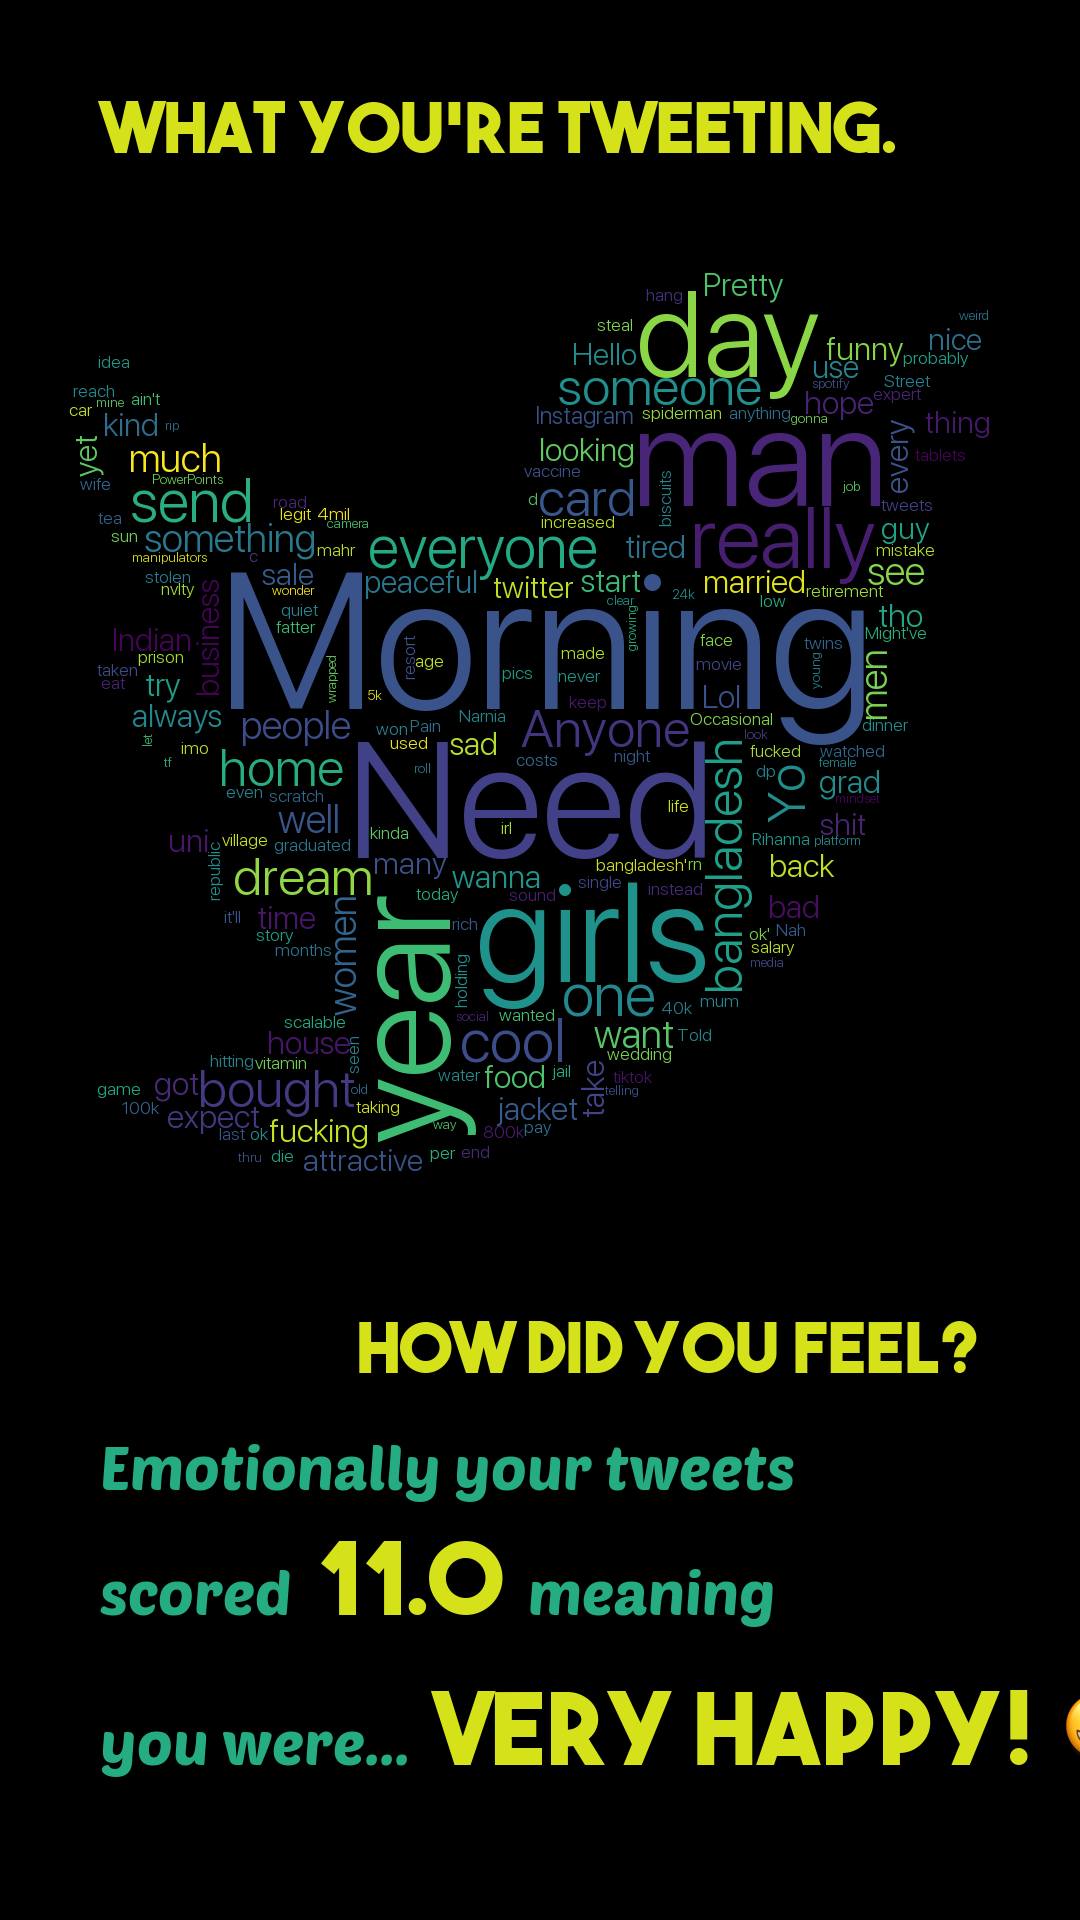
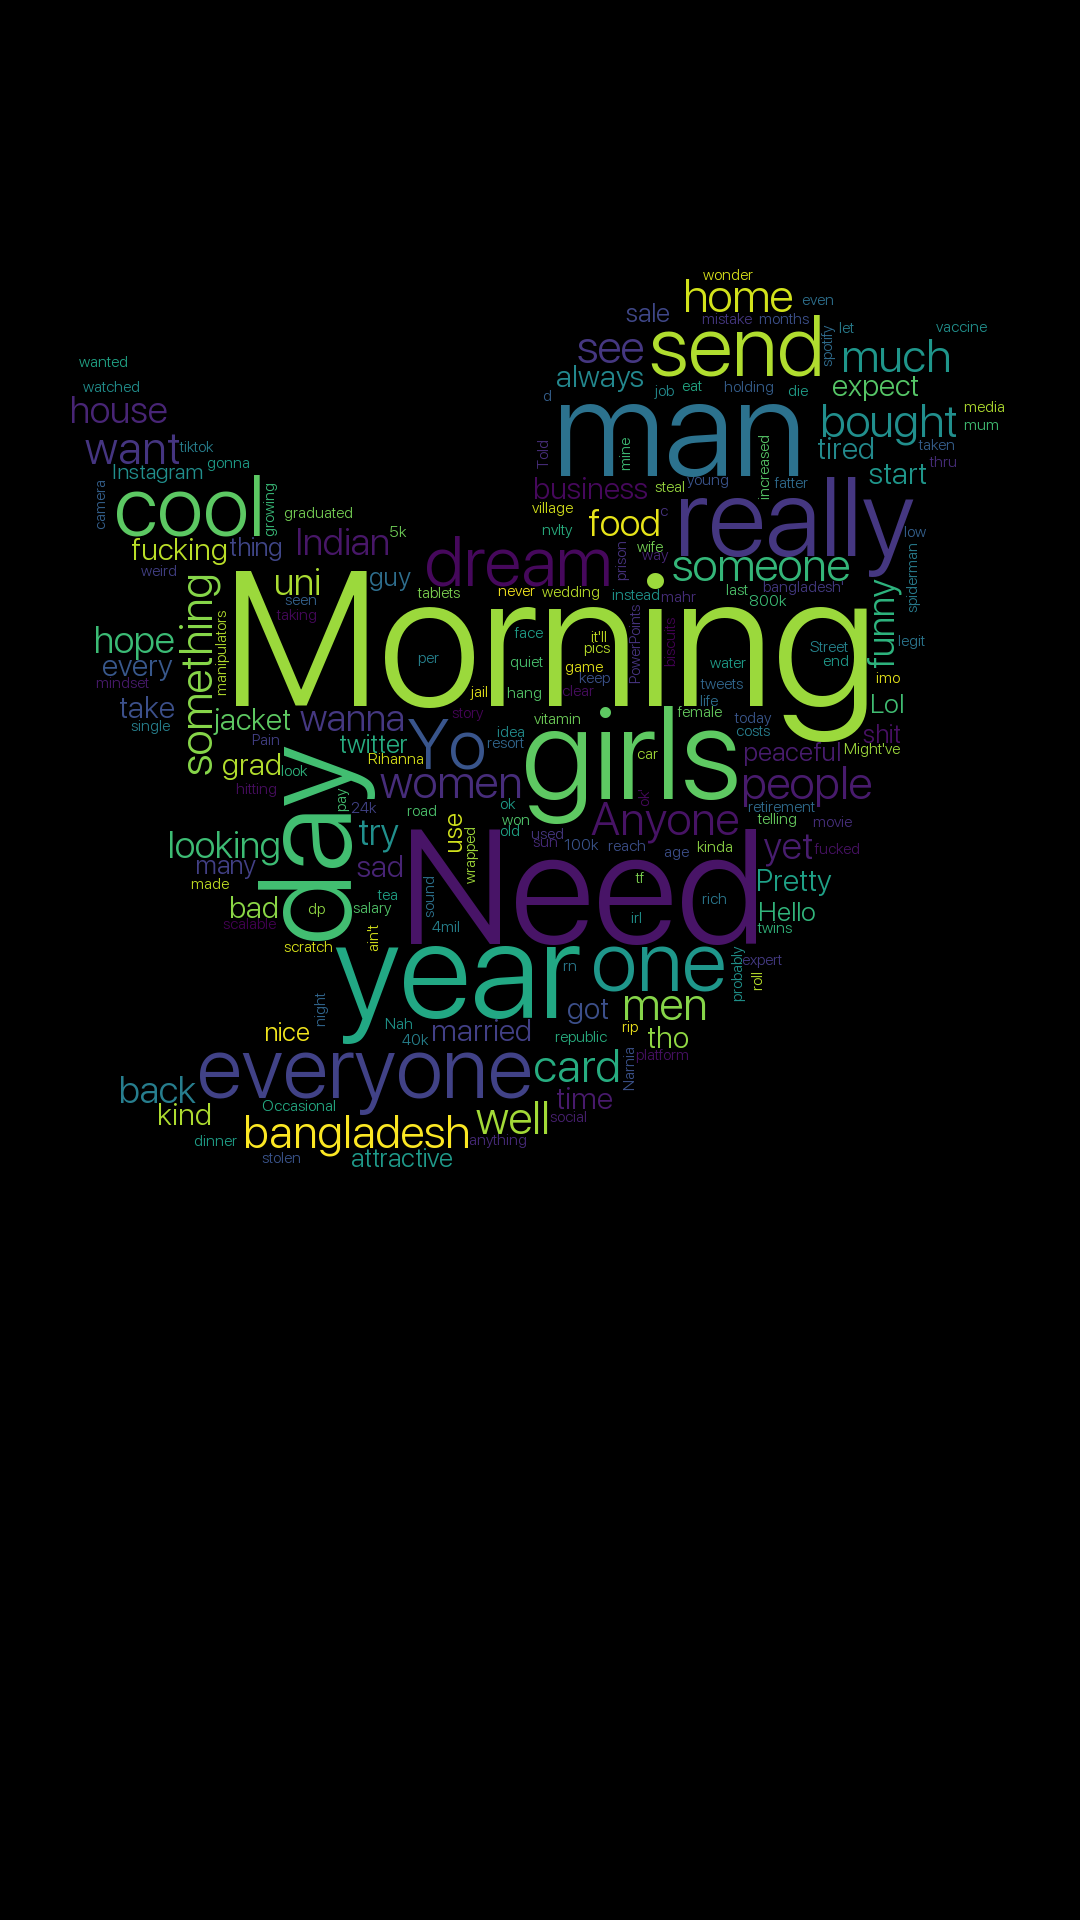
Restructure from 4 images to 2

diff --git a/generate_image.py b/generate_image.py
@@ -83,48 +83,6 @@ def cleanTweet(tweet):
     return ' '.join(re.sub("(@[A-Za-z0-9]+)|([^0-9A-Za-z' \t])|(\w+:\/\/\S+)", " ", tweet).split())
 
 
-# Generating word cloud image
-def createUserWordCloud(username):
-
-    # Content-related
-    text = open('user_tweets\\' + username + '.txt',
-                'r', encoding='utf-8').read()
-
-    # Stop words, add 'gt' to set
-    stopwords = STOPWORDS.add('gt')
-
-    # Mask
-    custom_mask = np.array(Image.open(
-        'img\\masks\\twitter_logo_1080x1920.png'))
-    font = 'fonts\\SFProDisplay-Light.ttf'
-
-    # WordCloud attributes
-    wordCloud = WordCloud(
-        font_path=font,
-        mask=custom_mask,
-        background_color='black',
-        stopwords=stopwords,
-        height=1000,
-        width=1000,
-        include_numbers=False,  # include numbers
-        #margin = 10,
-        #background_color = None,
-        #mode = 'RGBA',
-        # color_func = lambda *args, **kwargs: (255,255,255) # text colour
-    )
-
-    # Generate
-    wordCloud.generate(text)
-
-    # Use colour of mask image
-    ## image_colours = ImageColorGenerator(custom_mask)
-    ## wordCloud.recolor(color_func = image_colours)
-
-    # Store to file
-    wordCloud.to_file(
-        'img\\outputs\\word_clouds_and_sentiment_analysis\\' + username + '.png')
-
-
 # Add public metrics to dataframe
 def tweetsToDataFrame(tweets):
 
@@ -421,6 +379,110 @@ def generate_highest_metrics_and_likes_performance_image(username,
              username + ".png")
 
 
+#######################################################################################################################
+
+def generate_word_cloud_image(username):
+    
+    # Get user data
+    text = open('user_tweets\\' + username + '.txt',
+                'r', encoding='utf-8').read()
+
+    # Stop words, add 'gt' to it
+    stopwords = STOPWORDS.add('gt')
+
+    # Mask
+    custom_mask = np.array(Image.open(
+        'img\\masks\\twitter_logo_500x500.png'))
+    font = 'fonts\\SFProDisplay-Light.ttf'
+
+    # WordCloud attributes
+    wordCloud = WordCloud(
+        width=500,
+        height=500,
+        font_path=font,
+        mask=custom_mask,
+        stopwords=stopwords,
+        background_color='black',
+        include_numbers=False
+        #margin = 10, background_color = None, mode = 'RGBA',
+        #color_func = lambda *args, **kwargs: (255,255,255) # text colour
+    )
+
+    # Generate
+    wordCloud.generate(text)
+
+    # Use colour of mask image
+    ## image_colours = ImageColorGenerator(custom_mask)
+    ## wordCloud.recolor(color_func = image_colours)
+
+    # Store to file
+    wordCloud.to_file(
+        'img\\outputs\\word_clouds\\' + username + '.png')
+
+    # Open pre-gen word cloud
+    img = Image.open(
+        "img/outputs/word_clouds/" + username + ".png")
+    draw = ImageDraw.Draw(img)
+
+    # Template size
+    image_width, image_height = img.size
+
+    font = {
+        "title": ImageFont.truetype("fonts/theboldfont.ttf", 30),
+        "text": ImageFont.truetype("fonts/PoetsenOne-Regular.ttf", 60),
+        "number": ImageFont.truetype("fonts/theboldfont.ttf", 100)
+    }
+
+    font_colour = {
+        "title": (213, 226, 26),
+        "text": (37, 172, 130),
+        "number": (213, 226, 26)
+    }
+
+    # Text position
+    x_pos = 20
+    y_pos = 20
+    spacer = 100
+
+    # Content
+    title_text = ["What you're Tweeting."]
+    #title_text = [username + ",", "Tweets Visualized."]
+
+    # Draw title
+    draw.text((x_pos, y_pos), title_text[0],
+              font_colour["title"], font=font["title"])
+    #draw.text((x_pos, y_pos + spacer), title_text[1], font_colour["title"], font = font["title"])
+
+    # Save
+    img.save("img/outputs/word_clouds/" + username + ".png")
+    print("Created word cloud image.")
+   
+   
+def generate_highest_metrics_image():
+    return True
+    
+def generate_likes_performance_image():
+    return True
+        
+def generate_sentiment_analysis_image():
+    return True
+
+
+if __name__ == "__main__":
+    #main(sys.argv[1])
+    
+    username="FinessTV"
+    
+    generate_word_cloud_image(username)
+    
+    # Test without calling api
+    #generate_image_one("Talal916", 6.0)
+    #generate_image_two("Talal916", 787, 16, 292, {
+    #    100: 8,
+    #    1000: 0,
+    #    10000: 0
+    # })
+        
 def main(username):
 
     # Get user info, such as id
@@ -461,27 +523,28 @@ def main(username):
             10000: len(df[df['like_count'] > 10000])
         }
 
-        # Generate image 1
+        
         generate_highest_metrics_and_likes_performance_image(username,
                                                              most_likes,
                                                              most_retweets,
                                                              most_quotes,
                                                              likes_performance)
-
-        # Generate image 2
+        
         generate_word_clouds_and_sentiment_analysis_image(username, sentiment)
+        
+        # Generate image 1 - Word cloud
+        generate_word_cloud_image()
+        
+        # Generate image 2 - Highest metrics
+        generate_highest_metrics_image()
+    
+        # Generate image 3 - Likes performance
+        generate_likes_performance_image()
+        
+        # Generate image 4 - Sentiment analysis
+        generate_sentiment_analysis_image()
+        
         return True
 
     else:
         return False
-
-# if __name__ == "__main__":
-#    main(sys.argv[1])
-
-    # Test without calling api
-    #generate_image_one("Talal916", 6.0)
-    # generate_image_two("Talal916", 787, 16, 292, {
-    #    100: 8,
-    #    1000: 0,
-    #    10000: 0
-    # })
